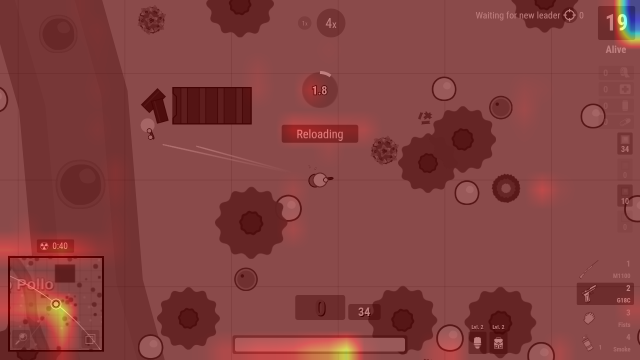
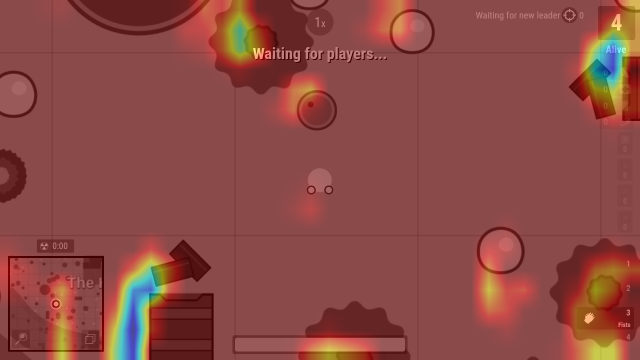
attempted to use prelabeled data (failed)

diff --git a/pretrain_cnn/train_prelabeled.py b/pretrain_cnn/train_prelabeled.py
@@ -1,0 +1,92 @@
+from pathlib import Path
+import sys
+sys.path.append(str(Path(__file__).resolve().parent.parent))
+
+import torch
+import numpy as np
+import pickle
+from torch.utils.data import DataLoader, Dataset
+import torch.nn as nn
+from torch.optim import Adam
+from network import ActorCritic
+
+class BCDataset(Dataset):
+    def __init__(self, path):
+        with open(path, "rb") as f:
+            self.data = pickle.load(f)
+
+    def __len__(self):
+        return len(self.data)
+
+    def __getitem__(self, idx):
+        frames, state = self.data[idx]
+        key_status, mousepos = state
+        key_status = key_status.copy()
+        key_status.append(1)
+
+        # Stack 4 grayscale frames → [4, 360, 640]
+        stacked = np.stack(frames, axis=0).astype(np.float32) / 255.0
+        stacked = torch.tensor(stacked)
+
+        keys  = torch.tensor(key_status, dtype=torch.float32)
+        mouse = torch.tensor(mousepos,   dtype=torch.float32)
+
+        return stacked, keys, mouse
+
+class BCWrapper(nn.Module):
+    def __init__(self, actor_critic):
+        super().__init__()
+        self.backbone = actor_critic.backbone
+        self.actor_critic = actor_critic
+
+    def forward(self, x):
+        a, b, c = self.actor_critic.forward(x)
+        return a.logits, b.mean
+
+device = torch.device("cuda" if torch.cuda.is_available() else "cpu")
+net = ActorCritic().to(device)
+ckpt = torch.load("checkpoints/model.pt", map_location = device)
+net.load_state_dict(ckpt["model"])
+
+net = BCWrapper(net).to(device)
+
+for param in net.parameters():
+    param.requires_grad = False
+
+for param in net.backbone.parameters():
+    param.requires_grad = True
+
+for name, param in net.named_parameters():
+    print(f"{name:40s} trainable={param.requires_grad}")
+
+optimizer = Adam(net.backbone.parameters(), lr=3e-4)
+
+dataset = BCDataset("pretrain_cnn/labeled_data.pkl")
+dataloader = DataLoader(dataset, batch_size=32, shuffle=True, num_workers=0)
+
+key_loss_fn   = nn.BCEWithLogitsLoss()
+mouse_loss_fn = nn.MSELoss()
+
+net.train()
+
+for epoch in range(20):
+    total_loss = 0
+
+    for frames, keys, mouse in dataloader:
+        frames = frames.to(device)
+        keys   = keys.to(device)
+        mouse  = mouse.to(device)
+
+        key_pred, mouse_pred = net.forward(frames)
+
+        loss = key_loss_fn(key_pred, keys) + mouse_loss_fn(mouse_pred, mouse)
+
+        optimizer.zero_grad()
+        loss.backward()
+        optimizer.step()
+
+        total_loss += loss.item()
+
+    print(f"Epoch {epoch+1:02d} | Loss: {total_loss/len(dataloader):.4f}")
+
+torch.save({"model": net.actor_critic.state_dict()}, "checkpoints/model_bc.pt")

diff --git a/pretrain_cnn/generate_data.py b/pretrain_cnn/generate_data.py
@@ -1,0 +1,71 @@
+from pathlib import Path
+import sys
+sys.path.append(str(Path(__file__).resolve().parent.parent))
+
+from game import Game
+from collections import deque
+import time
+import pickle
+from copy import deepcopy
+
+session = Game()
+session.join_game()
+
+session.driver.execute_script("""
+window.keys = "wasdfrxmv1234567890"
+window.key_status = Array(20).fill(0)
+window.mousepos = [0, 0]
+document.body.onkeydown = (e) => {
+    idx = window.keys.indexOf(e.key);
+    if (idx !== -1) window.key_status[idx] = 1;
+}
+document.body.onkeyup = (e) => {
+    idx = window.keys.indexOf(e.key);
+    if (idx !== -1) window.key_status[idx] = 0;
+}
+document.body.onmousedown = (e) => {
+    window.key_status[19] = 1;
+}
+document.body.onmouseup = (e) => {
+    window.key_status[19] = 0;
+}
+document.body.onmousemove = (e) => {
+    ratiox = e.clientX / window.innerWidth;
+    ratioy = e.clientY / window.innerHeight;
+    window.mousepos =  [ratiox, ratioy]
+}""")
+
+def log_state(game):
+    return game.driver.execute_script("return [window.key_status, window.mousepos]")
+
+collected_data = []
+try:
+    collected_data = pickle.load("labeled_data.pkl")
+except:
+    print("No past save, starting fresh")
+
+ss_queue = deque(maxlen = 4)
+
+for _ in range(4):
+    ss_queue.append(session.screenshot())
+
+while True:
+    if session.is_dead():
+        session.reset()
+
+    time_start = time.time()
+
+    ss_queue.append(session.screenshot())
+    state = log_state(session)
+    print("Logged state:", state)
+
+    collected_data.append([deepcopy(ss_queue), state])
+
+    if len(collected_data) % 50 == 0:
+        with open("labeled_data.pkl", "wb") as f:
+            pickle.dump(collected_data, f)
+
+    time_end = time.time()
+
+    if time_end - time_start < 0.2:
+        time.sleep(0.2 - (time_end - time_start))

diff --git a/test.py b/test.py
@@ -1,11 +1,15 @@
 from collections import deque
 import numpy as np
+from PIL import Image
 import torch
 from game import Game, Key, ALL_KEYS, NUM_KEYS
 from network import ActorCritic
 from pytorch_grad_cam import GradCAM
 from pytorch_grad_cam.utils.image import show_cam_on_image
 import matplotlib.pyplot as plt
+
+import torchvision.models as models
+import torchvision.transforms as transforms
 
 CHECKPOINT_PATH = "checkpoints/model.pt"
 
@@ -28,8 +32,8 @@ frame_stack = deque(maxlen=4)
 for _ in range(4):
     frame_stack.append(frame)
 
-obs = np.array(frame_stack, dtype=np.uint8)
-obs = torch.from_numpy(obs).unsqueeze(0).to(device)
+obs_np = np.array(frame_stack, dtype=np.uint8)
+obs = torch.from_numpy(obs_np).unsqueeze(0).to(device)
 
 # ----------------------
 # gradient visualization for CNN embedding layer output
@@ -39,3 +43,26 @@ cam = GradCAM(model = net.backbone, target_layers = [net.backbone.conv[6]])
 grayscale_cam = cam(input_tensor = obs)
 vis = show_cam_on_image(frame_rgb, grayscale_cam[0])
 plt.imsave(f"gradcam_vis_step{ckpt['step']}_ep{ckpt['episode']}.png", vis)
+
+
+"""
+resnet18 benchmark
+
+frame_pil = Image.fromarray(frame).convert("RGB")
+transform = transforms.Compose([
+    transforms.Resize((224, 224)),
+    transforms.ToTensor(),
+    transforms.Normalize(mean=[0.485, 0.456, 0.406],
+                         std=[0.229, 0.224, 0.225]),
+])
+obs = transform(frame_pil).unsqueeze(0)
+frame_rgb = np.array(
+    frame_pil.resize((224, 224))
+).astype(np.float32) / 255.0
+
+resnet18 = models.resnet18(weights=models.ResNet18_Weights.DEFAULT)
+cam = GradCAM(model = resnet18, target_layers = [resnet18.layer4[-1].conv2])
+grayscale_cam = cam(input_tensor = obs)
+vis = show_cam_on_image(frame_rgb, grayscale_cam[0])
+plt.imsave(f"gradcam_vis_resnet18.png", vis)
+"""

diff --git a/network.py b/network.py
@@ -33,7 +33,7 @@ class CNNBackbone(nn.Module):
 
     def _get_flat_size(self) -> int:
         with torch.no_grad():
-            dummy = torch.zeros(1, 4, 360, 640)
+            dummy = torch.zeros(1, 4, 360, 640, device=next(self.parameters()).device)
             return self.conv(dummy).flatten(1).shape[1]
 
     def forward(self, x: torch.Tensor) -> torch.Tensor:
